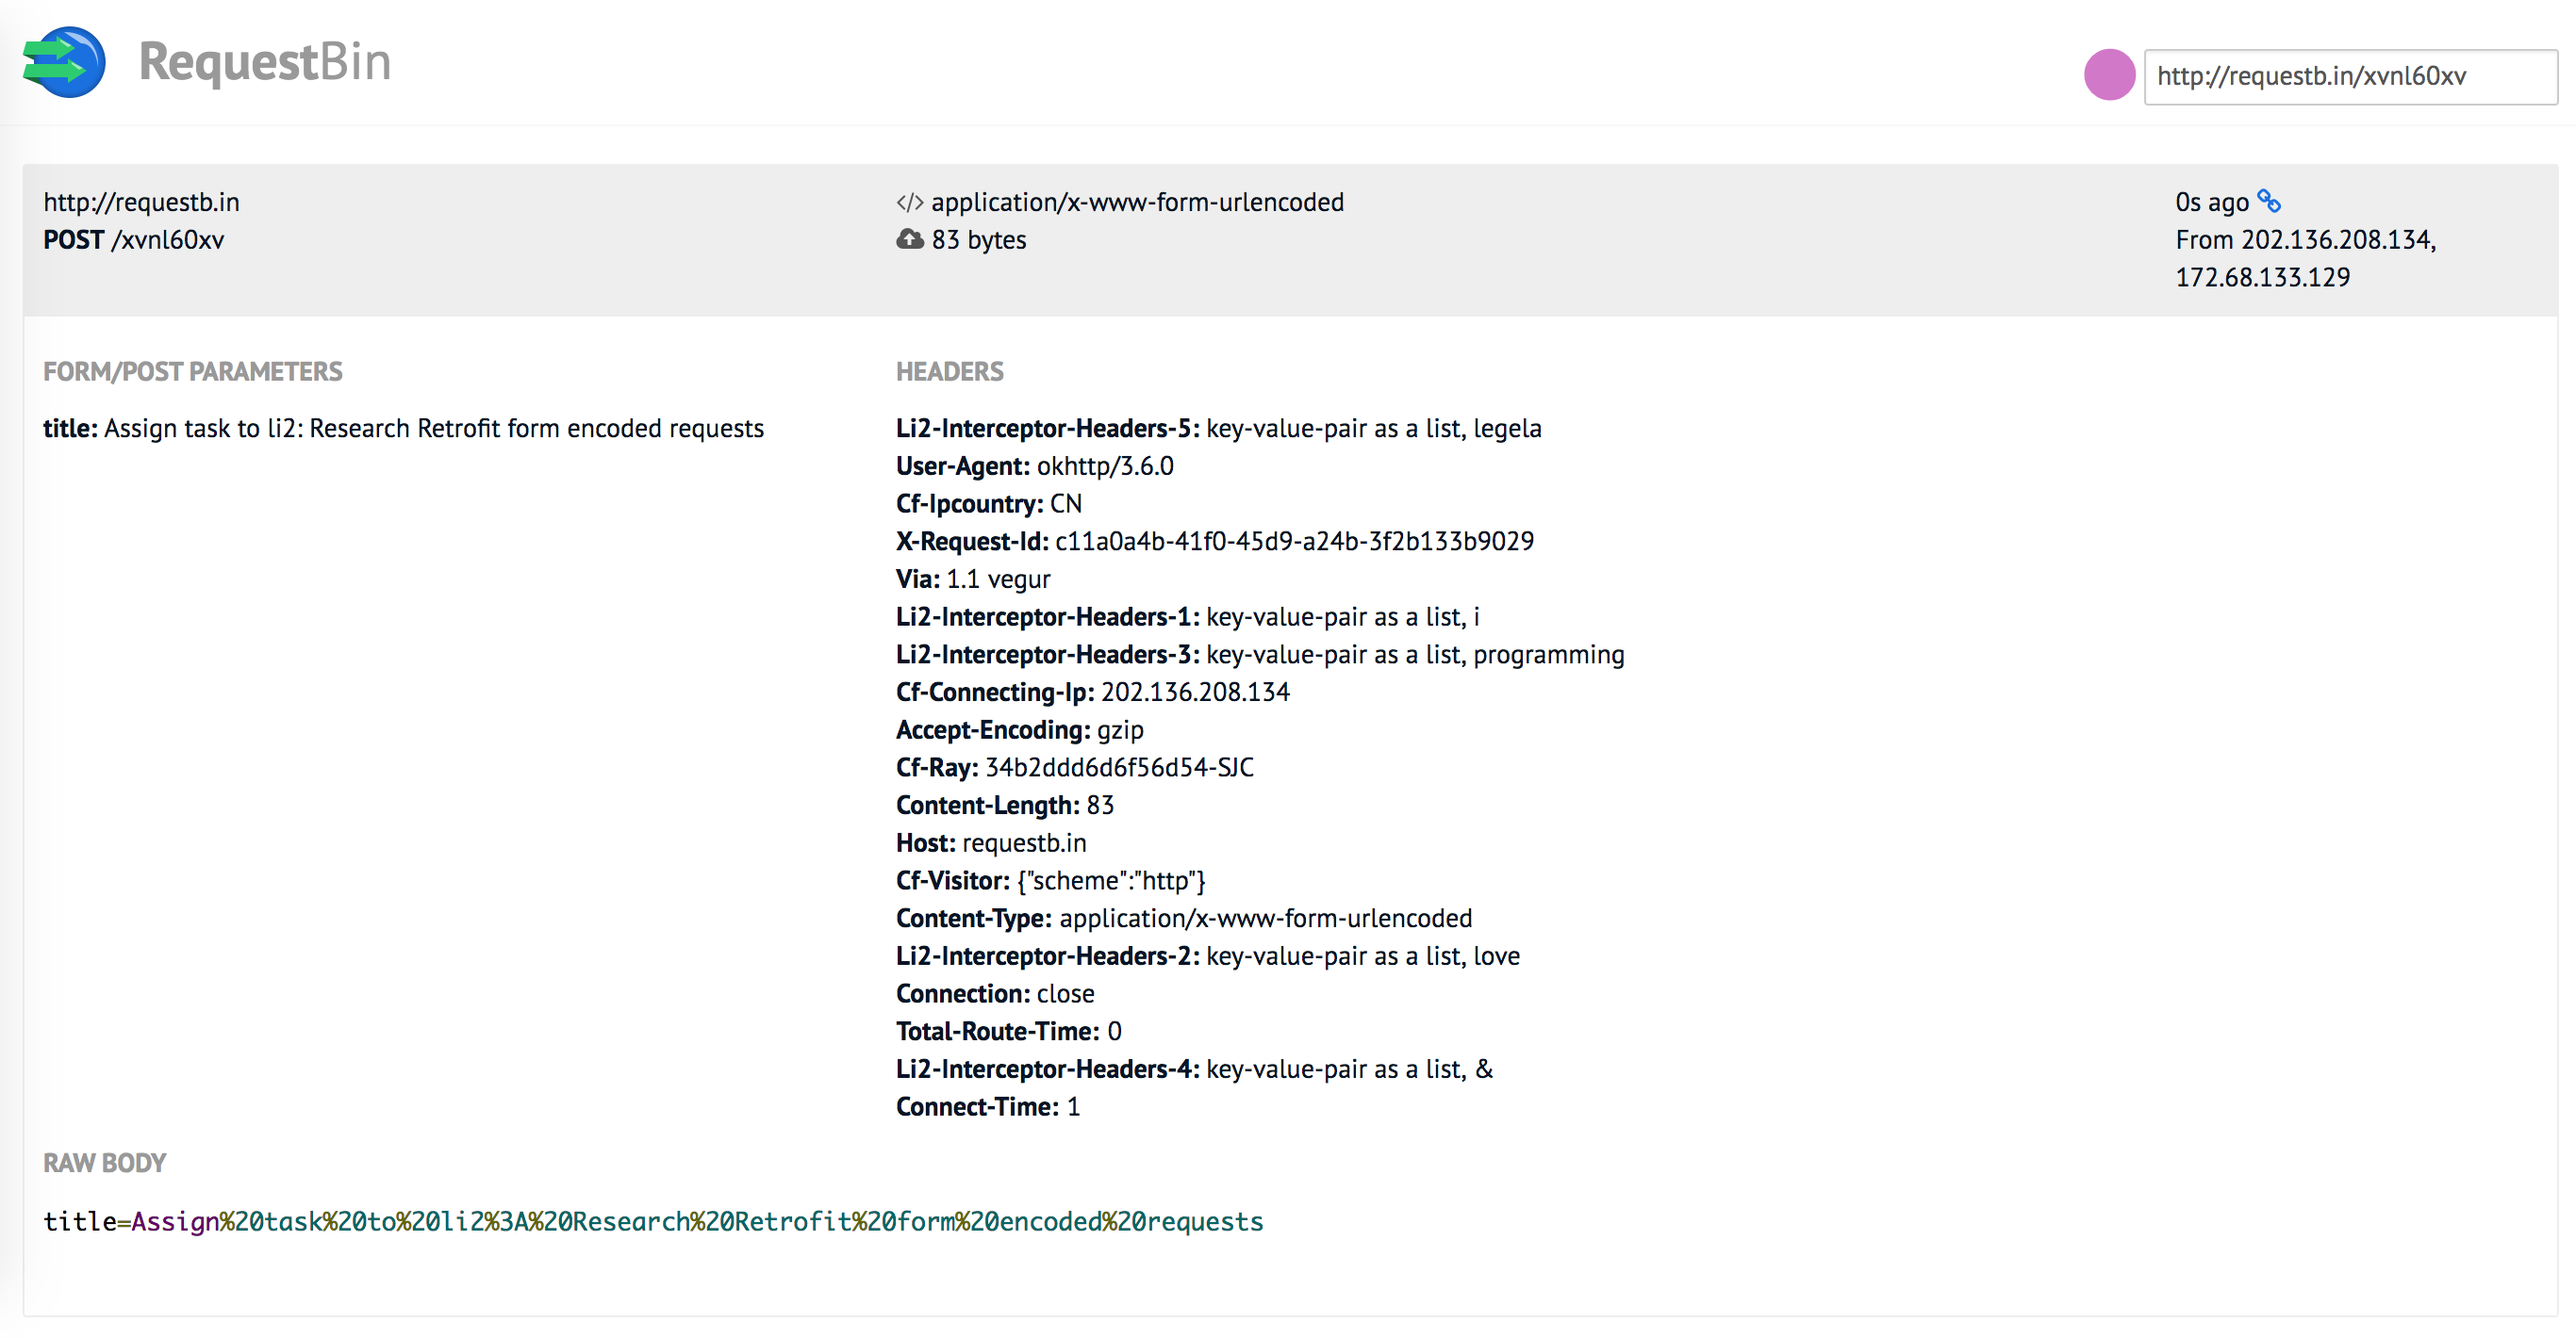
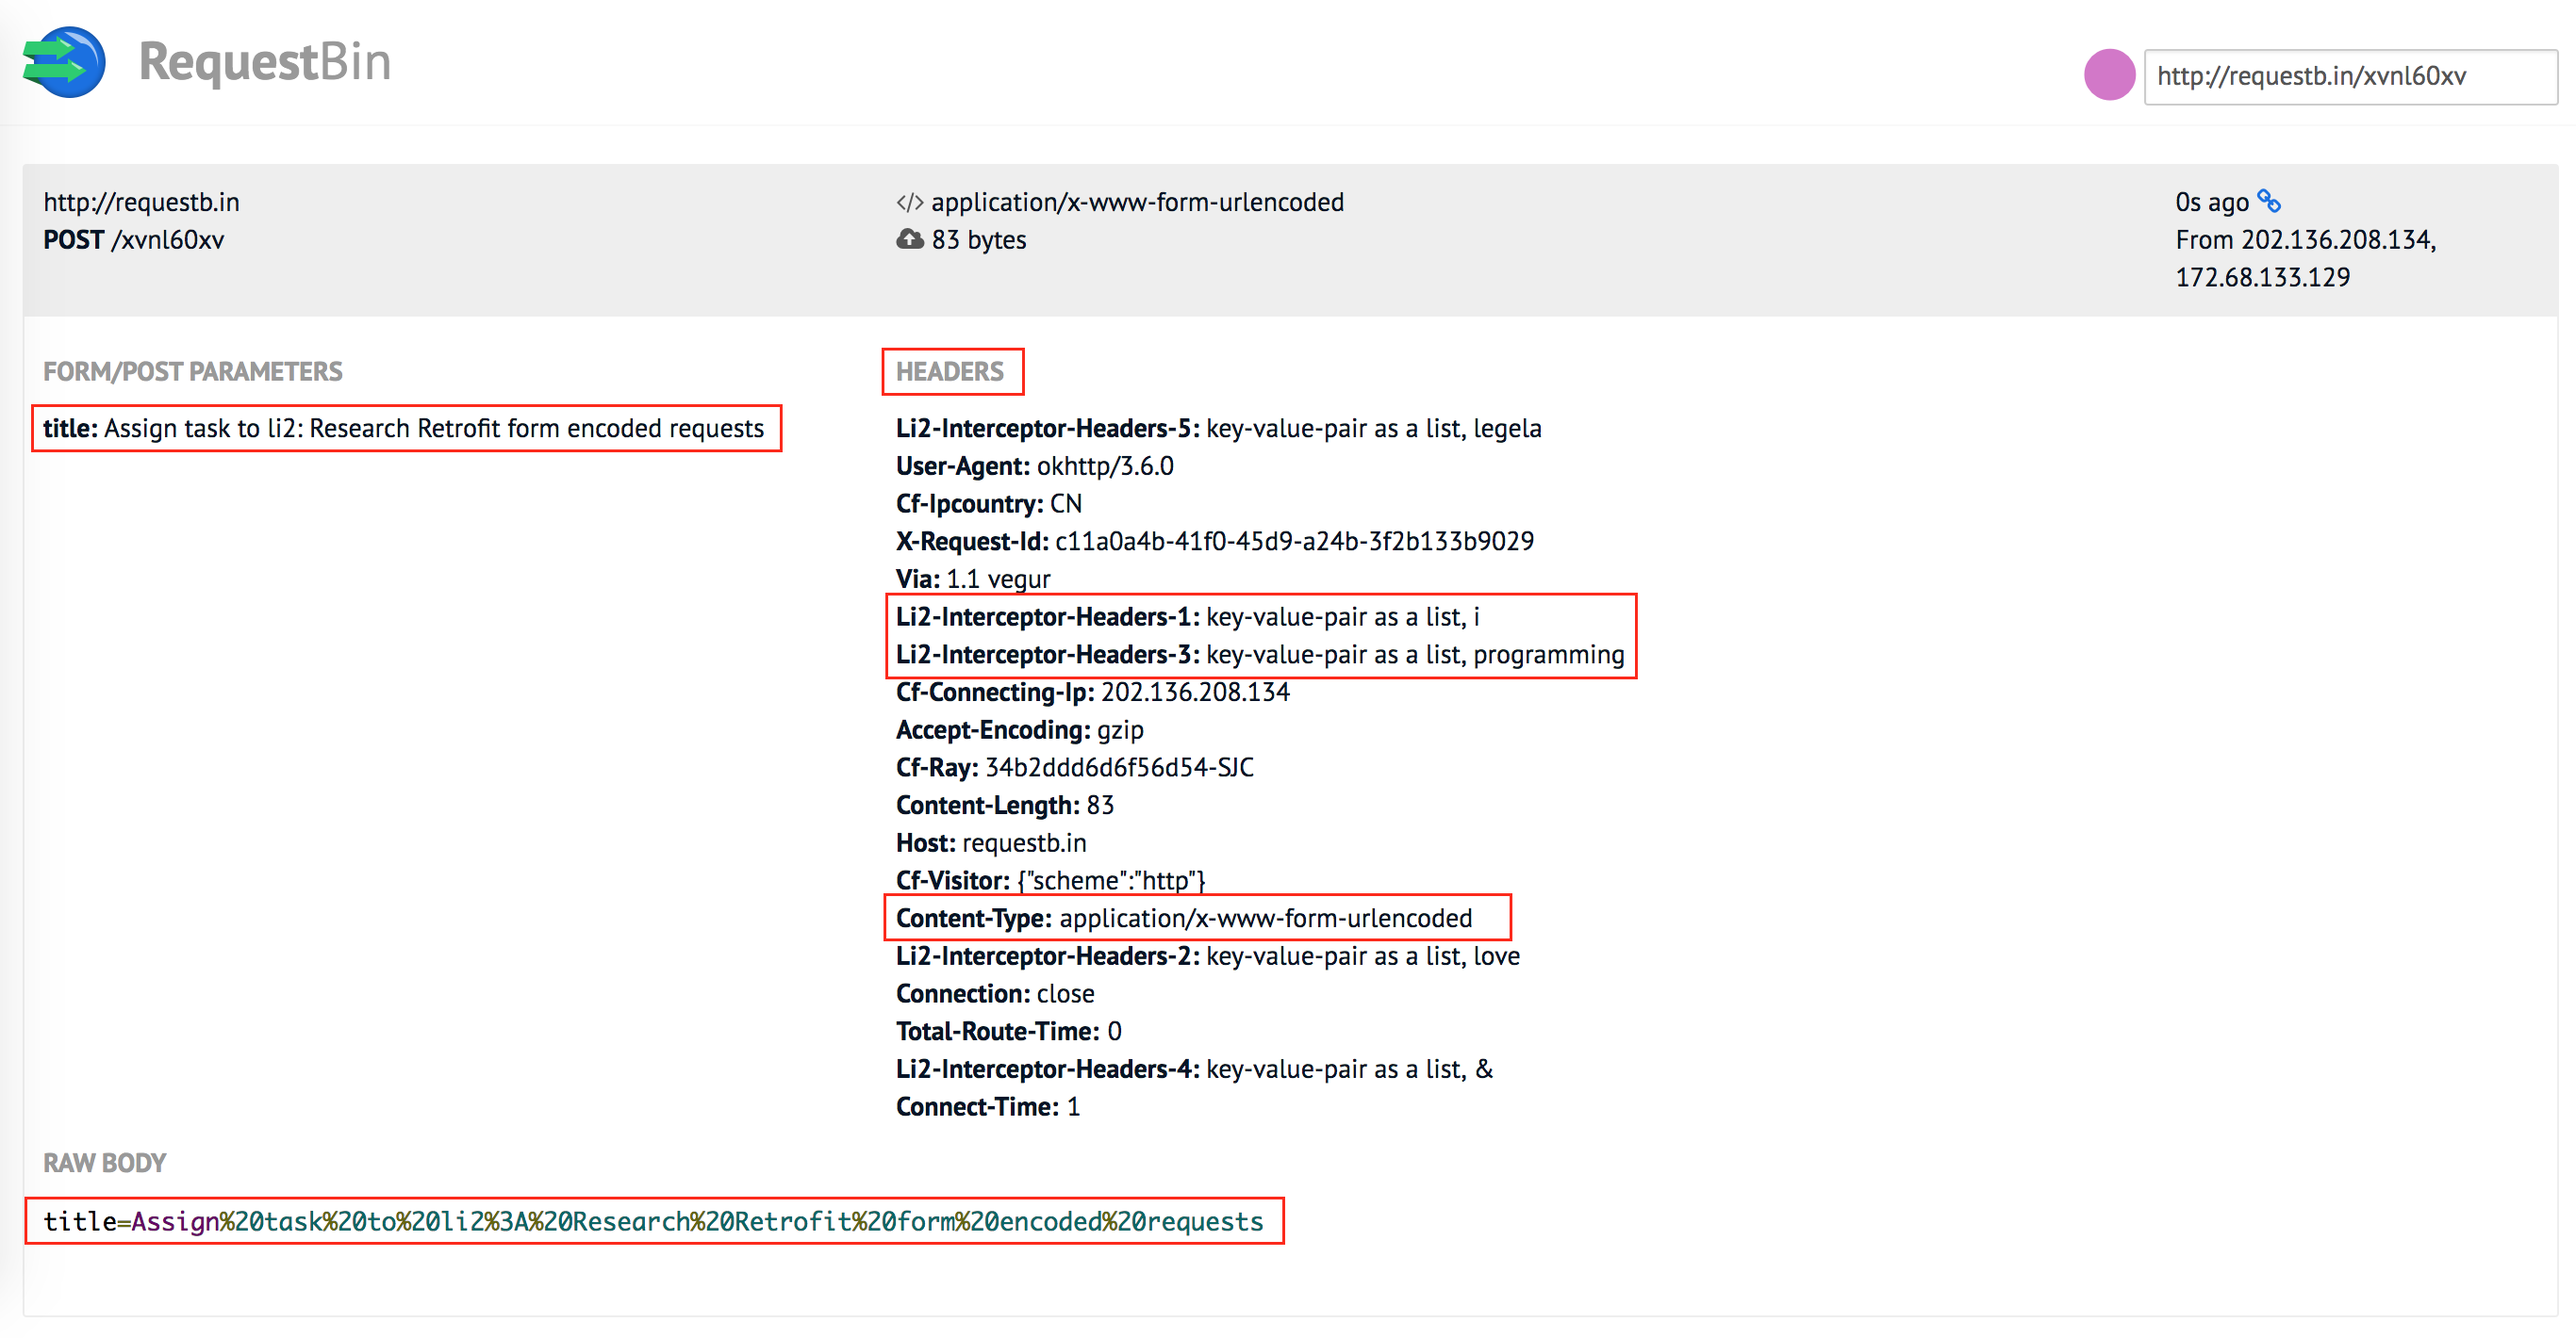
[ Retrofit Tutorial ] - [ README ] Send Data Form-Urlencoded

diff --git a/README/Retrofit/README.md b/README/Retrofit/README.md
@@ -373,9 +373,13 @@ In this final part you’ll learn a variety of request manipulations, including 
 
 Learn how to use Retrofit to add (optional / multiple) query parameters to your requests. 参考「Basics of API Description」dynamic URLs 包含路径参数和查询参数。
 
+### Optional query parameters
+
 查询参数是一种动态 url 技术，把 `@Query("key")` 携带的 key 和方法的参数组合成 key-value，然后添加到 url 中。
 
 可以传入 `null` 参数，Retrofit skips null parameters and ignores them while assembling the request. 但 cannot pass `null` for primitive data types like `int`, `float`, `long`, etc, 所以 API 定义 API 时要使用 `Integer`, `Float`, `Long` 代替。
+
+### Add multiple query parameter with QueryMap
 
 如果参数很多时，使用`QueryMap` annotation which is a better solution to work with complex API endpoints having various options for query parameters:
 
@@ -392,7 +396,7 @@ Learn how to use Retrofit to add (optional / multiple) query parameters to your 
     options.put("appid", "b1b15e88fa797225412429c1c50c122a1");
     call = weatherService.getLondonWeather(options);    
 
-如果屏蔽 `put("mode", ...)` 会导致 RuntimeException：
+**如果屏蔽 `put("mode", ...)` 会导致 RuntimeException**：
 
     org.xmlpull.v1.XmlPullParserException: Unexpected token (position:TEXT {"coord":{"lon":...
 
@@ -405,8 +409,7 @@ Request url 不包含 `&mode=xml`, 所以 response data 是 Json 格式，而试
 Learn how to use (optional) path parameters to refine your request for single or multiple values.
 
 By passing an empty String to path parameter, Retrofit (especially OkHttp’s HttpUrl class) will “remove” the path parameter and just use the leading url part for the request.
-
-If your path parameter is right in the middle of the url, passing an empty string will result in a wrong request url:
+If your path parameter is right in the middle of the url, **passing an empty string will result in a wrong request url**:
 
     public interface GitHubClient {
         @GET("/users/{user}/repos")
@@ -415,7 +418,7 @@ If your path parameter is right in the middle of the url, passing an empty strin
 
     https://api.github.com/users//repos
 
-和查询参数不同的是，不能传给路径参数 `Null`, 否则 `IllegalArgumentException`, 所以 Ensure stability by verifying that the path parameter values are always not null.
+和查询参数不同的是，**不能传给路径参数 `Null`**, 否则 `IllegalArgumentException`, 所以 Ensure stability by verifying that the path parameter values are always not null.
 
 ## L13 - Add Custom Request Header
 
@@ -431,6 +434,46 @@ Create a Request Interceptor, and intercept the request on the network layer pro
 
 A dynamic header is passed like a parameter to the **each request** API. [link](https://futurestud.io/tutorials/retrofit-add-custom-request-header)
 [Demo Codes: WeatherService.java](../../app/src/main/java/me/li2/android/tutorial/Retrofit2/L11QueryParameters/WeatherService.java)
+
+测试结果可以参考下一节内容「Send Data Form-Urlencoded」的图片。
+
+
+## L14 - Send Data Form-Urlencoded
+
+[Demo Codes](../../app/src/main/java/me/li2/android/tutorial/Retrofit2/L14SendDataFormUrlencoded)
+
+「Basics of API Description」讲到方法可以传递的几种参数类型，本节讲解 `@Field`: send data as form-urlencoded.
+
+只需要添加注解 `@FormUrlEncoded`，which will adjust the proper mime type of your request automatically to application/x-www-form-urlencoded. 
+
+MIME (Multipurpose Internet Mail Extensions) 是描述消息内容类型的因特网标准。MIME 消息能包含文本、图像、音频、视频以及其他应用程序专用的数据。
+
+    public interface TaskService {
+        @FormUrlEncoded
+        @POST("http://requestb.in/xvnl60xv")
+        Call<String> createTask(@Field("title") String title);
+    
+        @FormUrlEncoded
+        @POST("http://requestb.in/xvnl60xv")
+        Call<String> createTasks(@Field("title") List<String> titles);
+    }
+
+还需要用注解 `@Field` 传递参数，仍然是 key-value-pair，
+可以传递一个：
+
+![](retrofit_send_data_form_url_encoded.png)
+
+也可以传递一个 List (with same key)：
+
+![](retrofit_send_data_form_url_encoded_array.png)
+
+
+### Form-Urlencoded vs. Query Parameter
+
+"What is the difference between form-urlencoded and query parameters?". In essence: the **request type**.
+
+- form-urlencoded: `POST`, are used to send data to a server or API. The data is sent within the request body and not as an url parameter.
+- query parameter: `GET`, are used when requesting data from an API or server using specific fields or filter.
 
 
 
